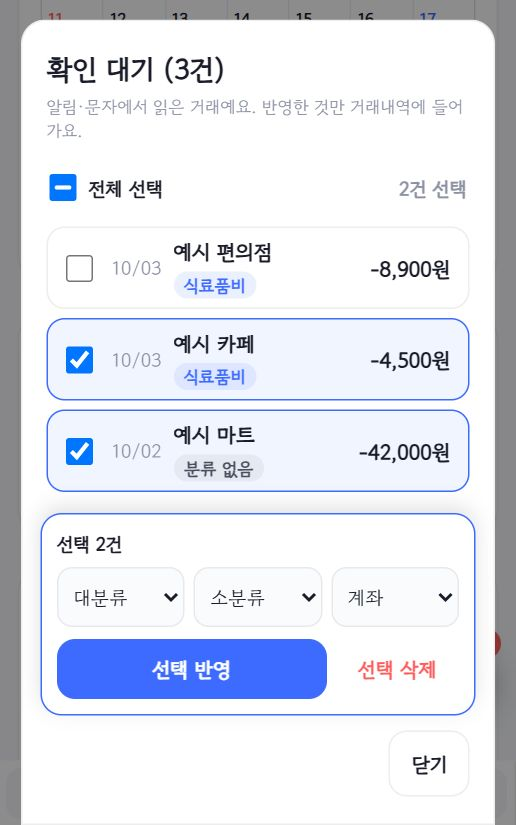
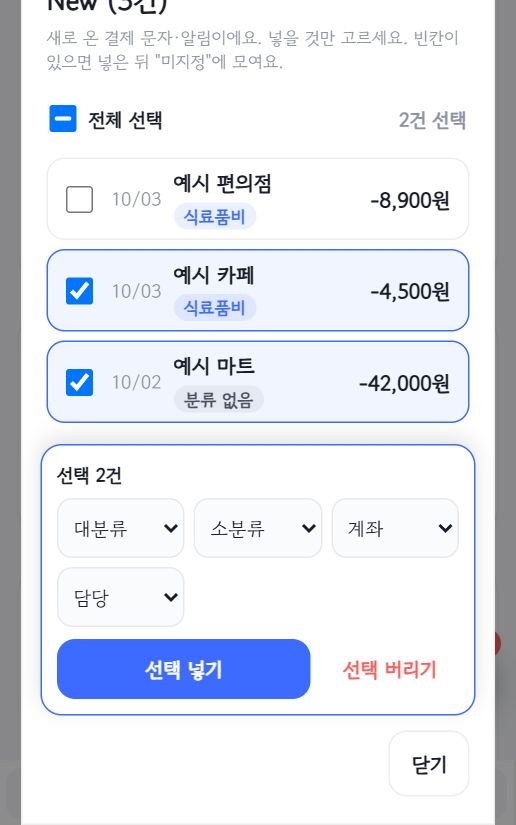
New / 미지정 개편 반영(웹) + 도움말 갱신
- 미지정 기준: 대분류·소분류·계좌·담당·내역 중 하나라도 빈 거래(소분류는 목록이 있을 때만,
  이체는 두 계좌). 웹 미지정 목록에 빈 항목 표시, 담당 일괄 지정 추가
- 도움말: HOME(New 버튼)·거래 달력·설정·New 목록·미지정 목록·불러오기 결과 화면 갱신

diff --git a/help/help-data.js b/help/help-data.js
@@ -10,7 +10,7 @@
  * 좌표 잡는 법과 갱신 절차는 .agents/skills/help-manual/SKILL.md 참고.
  */
 window.GB_HELP_DATA = {
-  version: '2026-10-03',
+  version: '2026-10-04',
   device: 'Galaxy Z Fold5 접은 화면 344×882',
   screens: [
     {
@@ -18,17 +18,17 @@ window.GB_HELP_DATA = {
       desc: '선택한 달의 최근 거래와 요약, 추이 그래프를 한눈에 봐요.',
       points: [
         { n: 1, x: 4.1, y: 0.9, title: '년/월 선택', text: '지금 보고 있는 년·월이에요. 누르면 년/월 선택 창이 열려요. 달을 바꾸면 모든 화면의 숫자가 그 달 기준으로 바뀌어요.' },
-        { n: 2, x: 52.8, y: 1.0, title: '가족코드 신호등', text: '초록 점은 가족코드로 연결되어 실시간 동기화 중, 빨간 점은 미연결이에요. 옆에 현재 가족코드가 보여요. 누르면 가족코드를 입력하거나 연결 상태를 볼 수 있어요.' },
-        { n: 3, x: 89.0, y: 0.9, title: '설정(톱니바퀴)', text: '모든 화면 오른쪽 위에 있어요. 누르면 설정 화면으로 가요. 도움말도 설정 안에 있어요.' },
-        { n: 4, x: 7.6, y: 5.3, title: '최근 거래', text: '최근 거래 8건을 보여줘요. 날짜는 일(예: 27일)만 표시해요. 담당자에게 색을 정하면 그 색이 행 바탕에 보여요(설정 > 함께 쓰는 사람).' },
-        { n: 5, x: 64.8, y: 5.7, title: '보기 필터', text: '지출만, 수입만 등 최근 거래에 보일 종류를 골라요.' },
-        { n: 6, x: 9.6, y: 11.4, title: '구분 동그라미와 풍선', text: '맨 앞 동그라미 글자는 구분이에요(지: 지출, 수: 수입, 이: 이체). 줄을 누르면 대분류·소분류가 풍선(말풍선)으로 보여요.' },
-        { n: 7, x: 7.6, y: 36.7, title: '지출·수입·저축·순자산', text: '선택한 달의 요약이에요. 금액은 가려져 있고, 카드를 누르면 금액이 보여요.' },
-        { n: 8, x: 9.0, y: 49.6, title: '수입·지출 추이', text: '최근 3개월·6개월·1년 중 기간을 골라 월별 수입·지출 흐름을 봐요.' },
-        { n: 9, x: 60.9, y: 74.8, title: '카테고리 비중', text: '지출/수입 버튼으로 바꿔 가며 대분류별 비중을 도넛 그래프로 봐요.' },
-        { n: 10, x: 56.4, y: 91.8, title: '알림 가져오기', text: '앱 전용 버튼이에요. 카드 승인 알림·문자를 읽어 "확인 대기"로 가져와요. 확인하고 반영한 것만 거래내역에 들어가요. 오른쪽 위 빨간 숫자는 아직 처리하지 않은 건수예요.' },
-        { n: 11, x: 4.1, y: 97.6, title: '하단 메뉴', text: 'HOME·거래내역·일정·계좌현황·예산·리포트로 이동해요. 칸이 좁으면 옆으로 밀어서 봐요.' },
-        { n: 12, x: 19.2, y: 97.6, title: '말풍선 배지', text: '거래내역 위 빨간 말풍선 숫자는 확인 대기·미지정·인식 못 한 알림을 합친 수예요.' }
+        { n: 2, x: 52.8, y: 1.1, title: '가족코드 신호등', text: '초록 점은 가족코드로 연결되어 실시간 동기화 중, 빨간 점은 미연결이에요. 옆에 현재 가족코드가 보여요. 누르면 가족코드를 입력하거나 연결 상태를 볼 수 있어요.' },
+        { n: 3, x: 89, y: 0.9, title: '설정(톱니바퀴)', text: '모든 화면 오른쪽 위에 있어요. 누르면 설정 화면으로 가요. 도움말도 설정 안에 있어요.' },
+        { n: 4, x: 9, y: 6.8, title: '최근 거래', text: '최근 거래 8건을 보여줘요. 날짜는 일(예: 27일)만 표시해요. 담당자에게 색을 정하면 그 색이 행 바탕에 보여요(설정 > 함께 쓰는 사람).' },
+        { n: 5, x: 64.8, y: 6.3, title: '보기 필터', text: '지출만, 수입만 등 최근 거래에 보일 종류를 골라요.' },
+        { n: 6, x: 9.6, y: 13.9, title: '구분 동그라미와 풍선', text: '맨 앞 동그라미 글자는 구분이에요(지: 지출, 수: 수입, 이: 이체). 줄을 누르면 대분류·소분류가 풍선(말풍선)으로 보여요.' },
+        { n: 7, x: 4.7, y: 30.1, title: '지출·수입·저축·순자산', text: '선택한 달의 요약이에요. 금액은 가려져 있고, 카드를 누르면 금액이 보여요.' },
+        { n: 8, x: 9, y: 42.4, title: '수입·지출 추이', text: '최근 3개월·6개월·1년 중 기간을 골라 월별 수입·지출 흐름을 봐요.' },
+        { n: 9, x: 60.9, y: 72.3, title: '카테고리 비중', text: '지출/수입 버튼으로 바꿔 가며 대분류별 비중을 도넛 그래프로 봐요.' },
+        { n: 10, x: 78.8, y: 90.9, title: 'New', text: '앱 전용 버튼이에요. 새로 온 카드 승인 문자·알림이 여기에 모여요. 누르면 New 목록이 열리고, 거래내역에 넣을지 버릴지 골라요. 빨간 숫자는 아직 고르지 않은 건수예요.' },
+        { n: 11, x: 4.1, y: 97.4, title: '하단 메뉴', text: 'HOME·거래내역·일정·계좌현황·예산·리포트로 이동해요. 칸이 좁으면 옆으로 밀어서 봐요.' },
+        { n: 12, x: 32.3, y: 97.4, title: '말풍선 배지', text: '거래내역 위 빨간 말풍선 숫자는 미지정 거래 수예요(대분류·소분류·계좌·담당·내역 중 빈칸이 있는 거래).' }
       ]
     },
     {
@@ -36,7 +36,7 @@ window.GB_HELP_DATA = {
       desc: '날짜를 누르면 아래에 그날의 거래와 일정이 나타나요.',
       points: [
         { n: 1, x: 4.7, y: 5.8, title: '달력 / 목록 / 즐겨찾기', text: '거래내역을 보는 방법을 골라요. 넘치면 옆으로 밀어서 봐요.' },
-        { n: 2, x: 56.7, y: 5.8, title: '확인 · 미지정 칩', text: '"확인"은 알림·문자에서 읽었지만 아직 반영하지 않은 거래 수, "미지정"은 카테고리나 계좌를 못 정한 거래 수예요. 누르면 확인 대기 목록(없으면 미지정 목록)이 열려요. 0건이면 숨겨져요.' },
+        { n: 2, x: 56.7, y: 5.8, title: '미지정 칩', text: '대분류·소분류·계좌·담당·내역 중 빈칸이 있는 거래 수예요. 누르면 미지정 목록이 열려 빈칸을 채워요. 0건이면 숨겨져요.' },
         { n: 3, x: 91.9, y: 6.9, title: '⋮ 메뉴', text: '문자/카카오톡 붙여넣기, 거래내역 불러오기(엑셀/CSV·표 붙여넣기), 거래내역 내보내기(엑셀)가 있어요.' },
         { n: 4, x: 61.1, y: 12, title: '점 색깔', text: '날짜 칸의 점은 거래 종류예요. 빨강 입금, 파랑 지출, 초록 이체.' },
         { n: 5, x: 45.3, y: 28.8, title: '날짜 누르기 / 길게 누르기', text: '짧게 누르면 그 날짜를 선택해 아래에 그날 거래가 보여요. 0.5초 길게 누르면 바로 입력 팝업이 열려요. 칸 아래에는 그날 합계, 빨간 글씨는 공휴일이에요.' },
@@ -121,22 +121,22 @@ window.GB_HELP_DATA = {
       id: 'settings', tab: '설정', title: '설정', image: 'img/settings.jpg',
       desc: '알림·문자 자동 인식, 도움말, 화면 모드, 가족코드, 백업 등을 관리해요.',
       points: [
-        { n: 1, x: 9, y: 4.4, title: '알림·문자 자동 인식', text: '앱 전용이에요. 카드 승인 알림·문자를 읽어 "확인 대기"에 모아 둬요. 아래 줄에 권한 상태(켜짐/꺼짐)가 보여요.' },
-        { n: 2, x: 9, y: 11.7, title: '불러오기', text: '기간을 골라 알림·문자를 한 번에 가져와요. 가져온 거래도 확인 대기로 가요. 결과는 확인 대기·미지정·중복·미인식 4칸으로 보여줘요.' },
-        { n: 3, x: 40.7, y: 11.7, title: '확인 대기', text: '알림·문자에서 읽었지만 아직 거래내역에 넣지 않은 거래예요. 열어서 반영하거나 삭제해요.' },
-        { n: 4, x: 9, y: 14.1, title: '미지정 목록', text: '반영은 했지만 카테고리나 계좌를 못 정한 거래를 모아 보고 한꺼번에 지정해요.' },
-        { n: 5, x: 48.5, y: 14.1, title: '인식 못 한 알림 / 무시 중인 앱', text: '거래로 읽지 못한 알림을 확인하거나, "다시 받지 않기"한 앱을 되돌려요.' },
-        { n: 6, x: 46.8, y: 16.6, title: '권한 안내 / 테스트 알림', text: '필요한 권한을 다시 안내하고, 테스트 알림으로 알림 인식이 되는지 확인해요.' },
-        { n: 7, x: 9, y: 21.3, title: '확인 없이 바로 거래내역에 넣기', text: '체크하면 확인 대기를 거치지 않고 예전처럼 바로 거래내역에 넣어요. 기본은 꺼져 있어요(확인 후 반영).' },
-        { n: 8, x: 9, y: 24.2, title: '접힌 메뉴', text: '▶ 를 누르면 배터리·알림 표시 설정, 카드별 담당·계좌 지정, 수신 진단이 펼쳐져요.' },
-        { n: 9, x: 80.6, y: 33.9, title: '도움말', text: '지금 보고 있는 이 화면별 설명서를 열어요.' },
-        { n: 10, x: 9, y: 39.3, title: '화면 모드', text: '라이트/다크 모드를 바꿔요.' },
-        { n: 11, x: 9, y: 46.2, title: '가족코드 연결', text: '같은 가족코드를 입력한 기기끼리 실시간으로 같은 가계부를 봐요. 가입은 필요 없고, 남이 추측하기 어려운 코드를 쓰세요.' },
-        { n: 12, x: 9, y: 55.5, title: '백업', text: 'JSON으로 저장하면 파일로 보관하고, 나중에 JSON 불러오기로 되살려요. 엑셀은 보기용 사본이라 되돌려 불러올 수 없어요.' },
-        { n: 13, x: 9, y: 69.6, title: '테스트 데이터', text: '화면 확인용 예시 거래·일정을 이번 달에 넣어요. 확인 후에는 직접 지워주세요.' },
-        { n: 14, x: 9, y: 83.8, title: '함께 쓰는 사람', text: '거래·일정의 "담당"으로 고를 사람을 추가하거나 지워요. 이름을 적고 아래에서 색을 고른 뒤 "추가"를 눌러요.' },
-        { n: 15, x: 11, y: 86.6, title: '담당자 색 점', text: '이름 앞 동그라미가 그 사람의 색이에요. 색 점이나 이름을 누르면 이름과 색을 바꾸는 창이 열려요. 정한 색은 HOME 최근 거래의 행 바탕에 보여요.' },
-        { n: 16, x: 9, y: 93.9, title: '색 고르기', text: '새로 추가할 사람의 색을 추천 7가지 중에서 골라요. "없음"을 고르면 색 없이 추가돼요.' }
+        { n: 1, x: 9, y: 4.4, title: '알림·문자 자동 인식', text: '앱 전용이에요. 새 카드 승인 문자·알림은 New(플로팅 버튼)에 모여요. 아래 줄에 권한 상태(켜짐/꺼짐)가 보여요.' },
+        { n: 2, x: 9, y: 12.6, title: '불러오기', text: '지난 내역을 기간·카드사를 골라 한 번에 가져와요. 가져온 거래는 New를 거치지 않고 바로 거래내역에 들어가요(빈칸이 있으면 미지정). 잘못 가져오면 결과 창에서 되돌려요.' },
+        { n: 3, x: 40.7, y: 12.6, title: 'New 목록', text: '플로팅 버튼 New와 같은 목록이에요. 새로 온 거래를 넣을지 버릴지 골라요.' },
+        { n: 4, x: 9, y: 15.1, title: '미지정 목록', text: '대분류·소분류·계좌·담당·내역 중 빈칸이 있는 거래를 모아 보고 채워요. 거래내역의 미지정 칩과 같은 목록이에요.' },
+        { n: 5, x: 48.9, y: 15.1, title: '인식 못 한 알림', text: '금융 알림 같지만 자동으로 읽지 못한 알림이에요. 여기서만 볼 수 있고, 원문을 보고 직접 등록하거나 무시해요.' },
+        { n: 6, x: 9, y: 17.6, title: '무시 중인 앱', text: '"다시 받지 않기"한 앱 목록이에요. 실수로 막았으면 여기서 되돌려요.' },
+        { n: 7, x: 46.8, y: 17.6, title: '권한 안내 / 테스트 알림', text: '필요한 권한을 다시 안내하고, 테스트 알림으로 알림 인식이 되는지 확인해요.' },
+        { n: 8, x: 9, y: 22.7, title: '접힌 메뉴', text: '▶ 를 누르면 배터리·알림 표시 설정, 카드별 담당·계좌 지정, 수신 진단이 펼쳐져요.' },
+        { n: 9, x: 80.6, y: 33.3, title: '도움말', text: '지금 보고 있는 이 화면별 설명서를 열어요.' },
+        { n: 10, x: 9, y: 38.7, title: '화면 모드', text: '라이트/다크 모드를 바꿔요.' },
+        { n: 11, x: 9, y: 45.6, title: '가족코드 연결', text: '같은 가족코드를 입력한 기기끼리 실시간으로 같은 가계부를 봐요. 가입은 필요 없고, 남이 추측하기 어려운 코드를 쓰세요.' },
+        { n: 12, x: 9, y: 55.1, title: '백업', text: 'JSON으로 저장하면 파일로 보관하고, 나중에 JSON 불러오기로 되살려요. 엑셀은 보기용 사본이라 되돌려 불러올 수 없어요.' },
+        { n: 13, x: 9, y: 69.3, title: '테스트 데이터', text: '화면 확인용 예시 거래·일정을 이번 달에 넣어요. 확인 후에는 직접 지워주세요.' },
+        { n: 14, x: 9, y: 83.7, title: '함께 쓰는 사람', text: '거래·일정의 "담당"으로 고를 사람을 추가하거나 지워요. 이름을 적고 아래에서 색을 고른 뒤 "추가"를 눌러요.' },
+        { n: 15, x: 11, y: 86.4, title: '담당자 색 점', text: '이름 앞 동그라미가 그 사람의 색이에요. 색 점이나 이름을 누르면 이름과 색을 바꾸는 창이 열려요. 정한 색은 HOME 최근 거래의 행 바탕에 보여요.' },
+        { n: 16, x: 9, y: 93.8, title: '색 고르기', text: '새로 추가할 사람의 색을 추천 7가지 중에서 골라요. "없음"을 고르면 색 없이 추가돼요.' }
       ]
     },
     {
@@ -160,39 +160,44 @@ window.GB_HELP_DATA = {
       ]
     },
     {
-      id: 'popup-import-result', tab: '가져오기 결과', title: '알림 가져오기 결과', image: 'img/popup-import-result.jpg',
-      desc: '알림 가져오기·불러오기가 끝나면 결과를 4칸으로 보여줘요. 숫자 칸을 누르면 그 목록이 열려요.',
+      id: 'popup-import-result', tab: '불러오기 결과', title: '불러오기 결과', image: 'img/popup-import-result.jpg',
+      desc: '설정 > 불러오기로 지난 내역을 가져오면 결과를 4칸으로 보여줘요. 지난 내역은 New를 거치지 않고 바로 거래내역에 들어가요.',
       points: [
-        { n: 1, x: 11.3, y: 64.2, title: '확인 대기', text: '새로 읽어 온 거래 수예요. 아직 거래내역에는 안 들어갔어요. 누르면 확인 대기 목록이 열려 반영하거나 삭제해요.' },
-        { n: 2, x: 53.8, y: 64.2, title: '미지정', text: '카테고리나 계좌를 못 정한 거래 수예요. 누르면 미지정 목록이 열려요.' },
-        { n: 3, x: 11.3, y: 82, title: '중복', text: '이미 있거나 이미 처리한(삭제 포함) 알림이라 빼고 넘어간 건수예요.' },
-        { n: 4, x: 53.8, y: 82, title: '미인식', text: '거래로 읽지 못한 알림 수예요. 누르면 목록에서 직접 확인하거나 수동 등록해요.' },
-        { n: 5, x: 86.5, y: 57.7, title: '닫기', text: '결과 창을 닫아요.' }
+        { n: 1, x: 11.3, y: 56.7, title: '등록', text: '거래내역에 바로 들어간 건수예요.' },
+        { n: 2, x: 53.8, y: 56.7, title: '미지정', text: '들어간 거래 중 빈칸(대분류·소분류·계좌·담당·내역)이 있는 건수예요. 누르면 미지정 목록이 열려요.' },
+        { n: 3, x: 11.3, y: 74.5, title: '중복', text: '이미 있거나 이미 처리한(버린 것 포함) 거래라 빼고 넘어간 건수예요.' },
+        { n: 4, x: 53.8, y: 74.5, title: '미인식', text: '거래로 읽지 못한 알림 수예요. 누르면 인식 못 한 알림 목록에서 직접 확인하거나 수동 등록해요.' },
+        { n: 5, x: 86.5, y: 50.3, title: '닫기', text: '결과 창을 닫아요.' },
+        { n: 6, x: 28.1, y: 91.6, title: '되돌리기', text: '잘못 가져왔으면 이번에 가져온 거래만 한 번에 지워요. 같은 기간을 다시 불러올 수 있게 돼요.' }
       ]
     },
     {
-      id: 'popup-review', tab: '확인 대기', title: '확인 대기 목록', image: 'img/popup-review.jpg',
-      desc: '알림·문자에서 읽은 거래는 먼저 여기에 모여요. 반영한 것만 거래내역에 들어가요. 거래내역의 "확인" 칩, 결과 창의 확인 대기 칸, 설정의 확인 대기 버튼으로 열어요.',
+      id: 'popup-review', tab: 'New', title: 'New 목록', image: 'img/popup-review.jpg',
+      desc: '새로 온 카드 승인 문자·알림이 먼저 여기에 모여요. 넣기로 고른 것만 거래내역에 들어가요. 플로팅 버튼 New나 설정의 New 목록으로 열어요.',
       points: [
-        { n: 1, x: 10.1, y: 6.5, title: '확인 대기', text: '아직 거래내역에 넣지 않은 거래예요. 반영하기 전에는 거래내역·달력·통계·잔액에 영향이 없어요.' },
-        { n: 2, x: 12.1, y: 22.7, title: '전체 선택', text: '목록 전체를 한 번에 고르거나 풀어요. 오른쪽에 고른 개수가 보여요.' },
-        { n: 3, x: 10.1, y: 39.3, title: '한 줄 — 고르기 / 펼치기', text: '체크박스로 하나씩 골라요. 줄을 누르면 펼쳐져 대분류·소분류·계좌를 고친 뒤 그 거래만 "반영" 또는 "삭제"할 수 있어요.' },
-        { n: 4, x: 33.5, y: 43.0, title: '추정 분류', text: '전에 입력한 거래를 보고 짐작한 대분류예요. 못 정하면 "분류 없음"으로 보여요. 분류 없이 반영하면 미지정 목록으로 가요.' },
-        { n: 5, x: 12.1, y: 69.5, title: '대분류·소분류·계좌', text: '고른 거래에 한꺼번에 넣을 값을 정해요. 비워 두면 각 거래의 원래 값으로 반영돼요.' },
-        { n: 6, x: 12.1, y: 78.2, title: '선택 반영', text: '고른 거래를 거래내역에 넣어요.' },
-        { n: 7, x: 68.5, y: 78.5, title: '선택 삭제', text: '고른 거래를 거래내역에 넣지 않고 지워요. 지운 알림은 다시 가져와도 올라오지 않아요.' },
-        { n: 8, x: 83.2, y: 92.5, title: '닫기', text: '목록을 닫아요. 남은 거래는 그대로 확인 대기에 있어요.' }
+        { n: 1, x: 10.1, y: 4.5, title: 'New', text: '아직 거래내역에 넣지 않은 새 거래예요. 넣기 전에는 거래내역·달력·통계·잔액에 영향이 없어요.' },
+        { n: 2, x: 12.1, y: 14.4, title: '전체 선택', text: '목록 전체를 한 번에 고르거나 풀어요. 오른쪽에 고른 개수가 보여요.' },
+        { n: 3, x: 10.1, y: 30.9, title: '한 줄 — 고르기 / 펼치기', text: '체크박스로 하나씩 골라요. 줄을 누르면 펼쳐져 대분류·소분류·계좌를 고친 뒤 그 거래만 "넣기" 또는 "버리기"를 할 수 있어요.' },
+        { n: 4, x: 34.2, y: 36, title: '추정 분류', text: '전에 입력한 거래를 보고 짐작한 대분류예요. 못 정하면 "분류 없음"으로 보여요. 빈칸이 있는 채로 넣으면 미지정 목록으로 가요.' },
+        { n: 5, x: 12.1, y: 61.1, title: '대분류·소분류·계좌·담당', text: '고른 거래에 한꺼번에 넣을 값을 정해요. 비워 두면 각 거래의 원래 값으로 넣어요.' },
+        { n: 6, x: 12.1, y: 78.2, title: '선택 넣기', text: '고른 거래를 거래내역에 넣어요.' },
+        { n: 7, x: 63.2, y: 78.2, title: '선택 버리기', text: '고른 거래를 거래내역에 넣지 않고 버려요. 버린 알림은 다시 올라오지 않아요.' },
+        { n: 8, x: 83.2, y: 92.5, title: '닫기', text: '목록을 닫아요. 남은 거래는 그대로 New에 있어요.' }
       ]
     },
     {
       id: 'popup-pending', tab: '미지정', title: '미지정 거래 목록', image: 'img/popup-pending.jpg',
-      desc: '확인 대기 거래가 없을 때 미지정 칩을 누르거나, 결과 창의 미지정 칸·설정의 미지정 목록을 누르면 열려요.',
+      desc: '거래내역의 미지정 칩이나 하단 빨간 숫자, 설정의 미지정 목록을 누르면 열려요.',
       points: [
-        { n: 1, x: 12.1, y: 36.4, title: '전체 선택', text: '목록 전체를 한 번에 고르거나 풀어요. 오른쪽에 고른 개수가 보여요.' },
-        { n: 2, x: 90.0, y: 41.5, title: '개별 선택 / 개별 편집', text: '체크박스로 하나씩 골라요. 줄을 누르면 아래에 개별 편집이 펼쳐져 저장·삭제할 수 있어요.' },
-        { n: 3, x: 11.6, y: 69.3, title: '대분류·소분류·계좌', text: '고른 거래에 넣을 값을 정해요. 채운 값만 적용돼요.' },
-        { n: 4, x: 12.1, y: 78.2, title: '선택 항목에 적용', text: '고른 거래에 한꺼번에 지정해요. 다 채워지면 미지정에서 빠져요.' },
-        { n: 5, x: 87.9, y: 81.1, title: '선택 삭제', text: '고른 거래를 지워요.' }
+        { n: 1, x: 10.1, y: 9.3, title: '미지정 거래', text: '대분류·소분류·계좌·담당·내역 중 하나라도 빈칸인 거래예요(직접 입력한 거래 포함). 소분류는 그 대분류에 소분류가 있을 때만, 이체는 두 계좌를 봐요.' },
+        { n: 2, x: 12.1, y: 25.5, title: '전체 선택', text: '목록 전체를 한 번에 고르거나 풀어요. 오른쪽에 고른 개수가 보여요.' },
+        { n: 3, x: 10.1, y: 30.9, title: '한 줄 — 고르기 / 펼치기', text: '체크박스로 하나씩 골라요. 줄을 누르면 펼쳐져 대분류·소분류·계좌·담당·내역을 입력하고 저장하거나 삭제해요.' },
+        { n: 4, x: 34.2, y: 36, title: '빈 항목', text: '이 거래에서 비어 있는 항목이에요. 다 채우면 미지정에서 빠져요.' },
+        { n: 5, x: 12.1, y: 61.1, title: '대분류·소분류·계좌', text: '고른 거래에 넣을 값을 정해요. 채운 값만 적용돼요.' },
+        { n: 6, x: 12.1, y: 69.5, title: '담당', text: '고른 거래의 담당을 한꺼번에 정해요.' },
+        { n: 7, x: 12.1, y: 78.2, title: '선택 항목에 적용', text: '고른 거래에 한꺼번에 지정해요. 다 채워지면 미지정에서 빠져요.' },
+        { n: 8, x: 66.2, y: 78.2, title: '선택 삭제', text: '고른 거래를 지워요.' },
+        { n: 9, x: 83.2, y: 92.5, title: '닫기', text: '목록을 닫아요.' }
       ]
     },
     {

diff --git a/index.html b/index.html
@@ -2306,8 +2306,9 @@ function openCloudFromTopbar(){
 /* ===================== 9차(W3 5번): 웹용 미지정 거래 일괄 분류 =====================
    앱 전용 inbox-ui.js 는 순수 웹에서 로드되지 않으므로 웹용을 여기 둔다. 앱(Capacitor 네이티브/androidBridge/InboxUI 로드)에서는
    inbox-ui 의 '미지정' 칩·목록이 이미 있으므로 이 칩·모달을 만들지 않는다. 순수 웹이면 폭과 무관하게 보인다.
-   '미지정' 기준은 inbox-ui needsInput 과 같은 의미: 지출·수입은 대분류(category) 없음, 이체는 보내는/받는 계좌 중 하나라도 없음.
-   (웹에는 자동 등록 표식이 없을 수 있어 auto/pending 여부와 무관하게 모든 거래를 본다.) */
+   11차 '미지정' 기준(inbox-ui missingFields 와 같은 규칙): 대분류·소분류·계좌·담당·내역(메모) 중 하나라도 비면 미지정.
+   소분류는 그 대분류에 소분류 목록이 있을 때만, 이체는 대분류·소분류 대신 보내는/받는 계좌, 담당은 함께 쓰는 사람이 있을 때만 본다.
+   (자동 등록 표식과 무관하게 모든 거래를 본다.) */
 function isAppEnvForWebPending(){
   try{
     if (window.InboxUI || window.androidBridge) return true;
@@ -2316,11 +2317,22 @@ function isAppEnvForWebPending(){
     return typeof cap.isNativePlatform === 'function' ? !!cap.isNativePlatform() : true;
   }catch(_){ return false; }
 }
-function webTxNeedsInput(t){
-  if (!t) return false;
-  if (t.type === '이체') return !t.accountId || !t.toAccountId;
-  return !t.category;
+function txMissingFields(t){
+  const out = [];
+  if (!t) return out;
+  if (t.type === '이체'){
+    if (!t.accountId) out.push('보내는 계좌');
+    if (!t.toAccountId) out.push('받는 계좌');
+  } else {
+    if (!t.category) out.push('대분류');
+    else if (subCatsOf(t.category).length && !t.subCategory) out.push('소분류');
+    if (!t.accountId) out.push('계좌');
+  }
+  if ((state.members || []).length && !t.owner) out.push('담당');
+  if (!String(t.memo || '').trim()) out.push('내역');
+  return out;
 }
+function webTxNeedsInput(t){ return txMissingFields(t).length > 0; }
 function webPendingTxList(){
   return (state.transactions || []).filter(webTxNeedsInput)
     .sort((a,b)=> String(b.date||'').localeCompare(String(a.date||'')));
@@ -2351,7 +2363,7 @@ function openWebPendingModal(){
   const accOpts = transactableAccounts().map(a=>`<option value="${escapeHtml(a.id)}">${escapeHtml(a.name)}</option>`).join('');
   openModal(
     '<div class="section-title"><h3>미지정 거래 <span class="muted-small" id="wpend-total"></span></h3><button type="button" class="btn small ghost" id="wpend-close">닫기</button></div>' +
-    '<p class="muted-small" style="margin:0 0 8px">대분류(이체는 계좌)가 비어 있는 거래예요. 줄을 누르면 개별 수정, 체크해서 한꺼번에 지정할 수 있어요.</p>' +
+    '<p class="muted-small" style="margin:0 0 8px">대분류·소분류·계좌·담당·내역 중 빈칸이 있는 거래예요. 줄을 누르면 개별 수정, 체크해서 한꺼번에 지정할 수 있어요.</p>' +
     '<div class="wpend-head"><label><input type="checkbox" id="wpend-all"> 전체 선택</label><span class="wpend-count" id="wpend-count">0건 선택</span></div>' +
     '<div class="wpend-list" id="wpend-list"></div>' +
     '<div class="wpend-bulk" id="wpend-bulk" style="display:none">' +
@@ -2359,6 +2371,7 @@ function openWebPendingModal(){
         majOpts('지출', (state.categories && state.categories.expense) || []) + majOpts('수입', (state.categories && state.categories.income) || []) + '</select>' +
       '<select id="wpend-sub" aria-label="소분류" disabled><option value="">소분류(선택 안 함)</option></select>' +
       '<select id="wpend-acc" aria-label="계좌"><option value="">계좌(변경 안 함)</option>' + accOpts + '</select>' +
+      ((state.members||[]).length ? '<select id="wpend-owner" aria-label="담당"><option value="">담당(변경 안 함)</option>' + state.members.map(m=>`<option value="${escapeHtml(m)}">${escapeHtml(m)}</option>`).join('') + '</select>' : '') +
       '<button type="button" class="btn small primary" id="wpend-apply">선택 항목에 적용</button>' +
       '<button type="button" class="btn small danger" id="wpend-del">선택 삭제</button>' +
     '</div>' +
@@ -2423,7 +2436,7 @@ function drawWebPendingList(){
       const md = d.length>=10 ? d.slice(5,7)+'/'+d.slice(8,10) : d;
       const cls = t.type==='수입' ? 'income' : t.type==='이체' ? 'transfer' : 'expense';
       const ch = t.type==='수입' ? '수' : t.type==='이체' ? '이' : '지';
-      const need = t.type==='이체' ? (!t.accountId && !t.toAccountId ? '계좌 미지정' : !t.accountId ? '보내는 계좌 미지정' : '받는 계좌 미지정') : '대분류 미지정';
+      const need = txMissingFields(t).join('·') + ' 없음';
       const memo = t.memo || t.autoMerchant || '(내역 없음)';
       const sel = webPendSel.has(t.id);
       return `<div class="wpend-row${sel?' sel':''}" data-id="${escapeHtml(t.id)}" title="눌러서 수정">` +
@@ -2448,9 +2461,11 @@ function applyWebPendingBulk(){
   const cat = document.getElementById('wpend-cat').value;
   const sub = document.getElementById('wpend-sub').value;
   const acc = document.getElementById('wpend-acc').value;
+  const ownEl = document.getElementById('wpend-owner');
+  const own = ownEl ? ownEl.value : '';
   const msg = document.getElementById('wpend-msg');
   if (!ids.size) return;
-  if (!cat && !acc){ if (msg) msg.textContent = '적용할 대분류나 계좌를 골라주세요.'; return; }
+  if (!cat && !acc && !own){ if (msg) msg.textContent = '적용할 대분류·계좌·담당 중 하나를 골라주세요.'; return; }
   const before = webPendingTxList().length;
   let applied = 0, skippedCat = 0;
   state.transactions.forEach(t=>{
@@ -2470,6 +2485,7 @@ function applyWebPendingBulk(){
         else if (!t.toAccountId && t.accountId !== acc){ t.toAccountId = acc; touched = true; }
       } else { t.accountId = acc; touched = true; }
     }
+    if (own && (state.members||[]).includes(own)){ t.owner = own; touched = true; }
     if (touched) applied++;
     if (t.pending && !webTxNeedsInput(t)) t.pending = false;
   });
